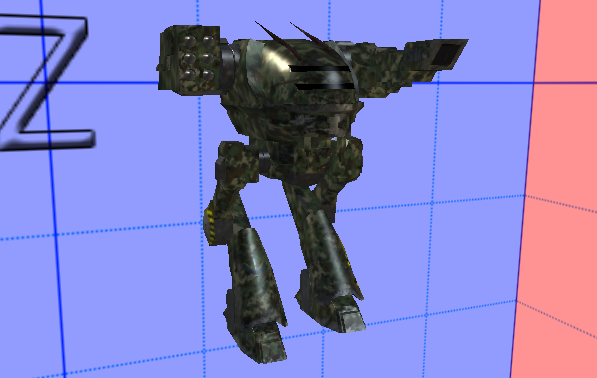
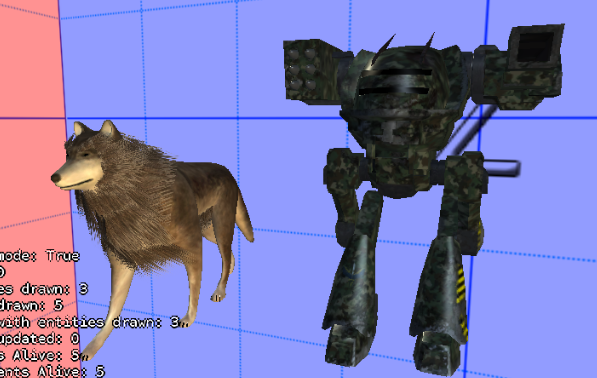
updated skinned example for the skinned composite change + fixed bullets collision in spacesip game

diff --git a/SpaceshipGame/SpaceshipGame.cs b/SpaceshipGame/SpaceshipGame.cs
@@ -112,7 +112,7 @@ namespace SpaceshipGame
 
             // create a particle system to generate asteroids randomly
             ParticleSystem asteroidsGenerator = new ParticleSystem();
-            asteroidsGenerator.AddParticleType(new ParticleType(asteroid, frequency: 0.065f, frequencyChange: 0.00085f));
+            asteroidsGenerator.AddParticleType(new ParticleType(asteroid, frequency: 0.08f, frequencyChange: 0.00085f));
             asteroidsGenerator.Interval = 0.25f;
             asteroidsGenerator.AddParticlesToRoot = true;
 
@@ -263,7 +263,7 @@ namespace SpaceshipGame
             // create the player bullets prototype - these are the objects player spawn when he shoots
             // first, create the bullet game object and add shape renderer to it
             GameObject bullet = new GameObject("bullet", SceneNodeType.Simple);
-            bullet.SceneNode.Scale = new Vector3(0.2f, 0.2f, 1f);
+            bullet.SceneNode.Scale = new Vector3(0.2f, 0.4f, 1f);
             ShapeRenderer bulletShape = new ShapeRenderer(ShapeMeshes.Sphere);
             bulletShape.MaterialOverride.DiffuseColor = Color.Red;
             bulletShape.RenderingQueue = GeonBit.Core.Graphics.RenderingQueue.Solid;

diff --git a/SkinnedMesh/Game1.cs b/SkinnedMesh/Game1.cs
@@ -84,7 +84,6 @@ namespace EmptyGeonBitProject
                 // create skinned mesh object
                 GameObject modelObject = new GameObject("wolf");
                 SkinnedModelRenderer model = new SkinnedModelRenderer("game/wolf/Wolf");
-                model.RenderingQueue = GeonBit.Core.Graphics.RenderingQueue.Mixed;
                 model.SetClip("Wolf_Skeleton|Wolf_Walk_cycle_", transitionTime: 0f);
 
                 // set model materials color and disable lighting
@@ -96,7 +95,9 @@ namespace EmptyGeonBitProject
                 }
 
                 // fix something in wolf's model (problem with one of the mesh effects)
-                var furMaterial = model.GetMaterial("Wolf_obj_fur", 0);
+                var furMesh = model.GetMesh("Wolf_obj_fur");
+                furMesh.RenderingQueue = GeonBit.Core.Graphics.RenderingQueue.Opacity;
+                var furMaterial = furMesh.GetMaterial(0);
                 furMaterial.Alpha = 1f;
                 furMaterial.DiffuseColor = Color.White;
                 furMaterial.SpecularPower = 10f;
